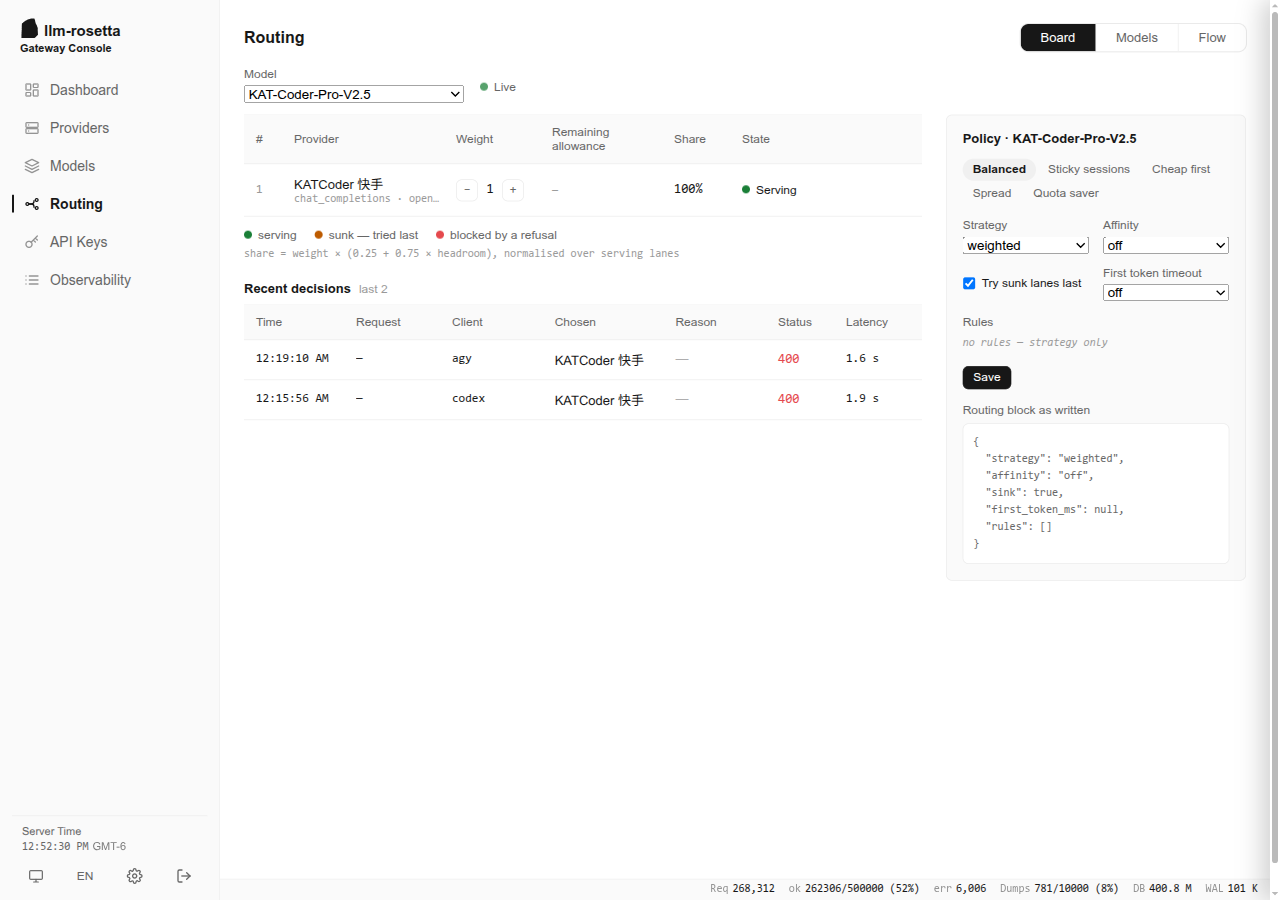
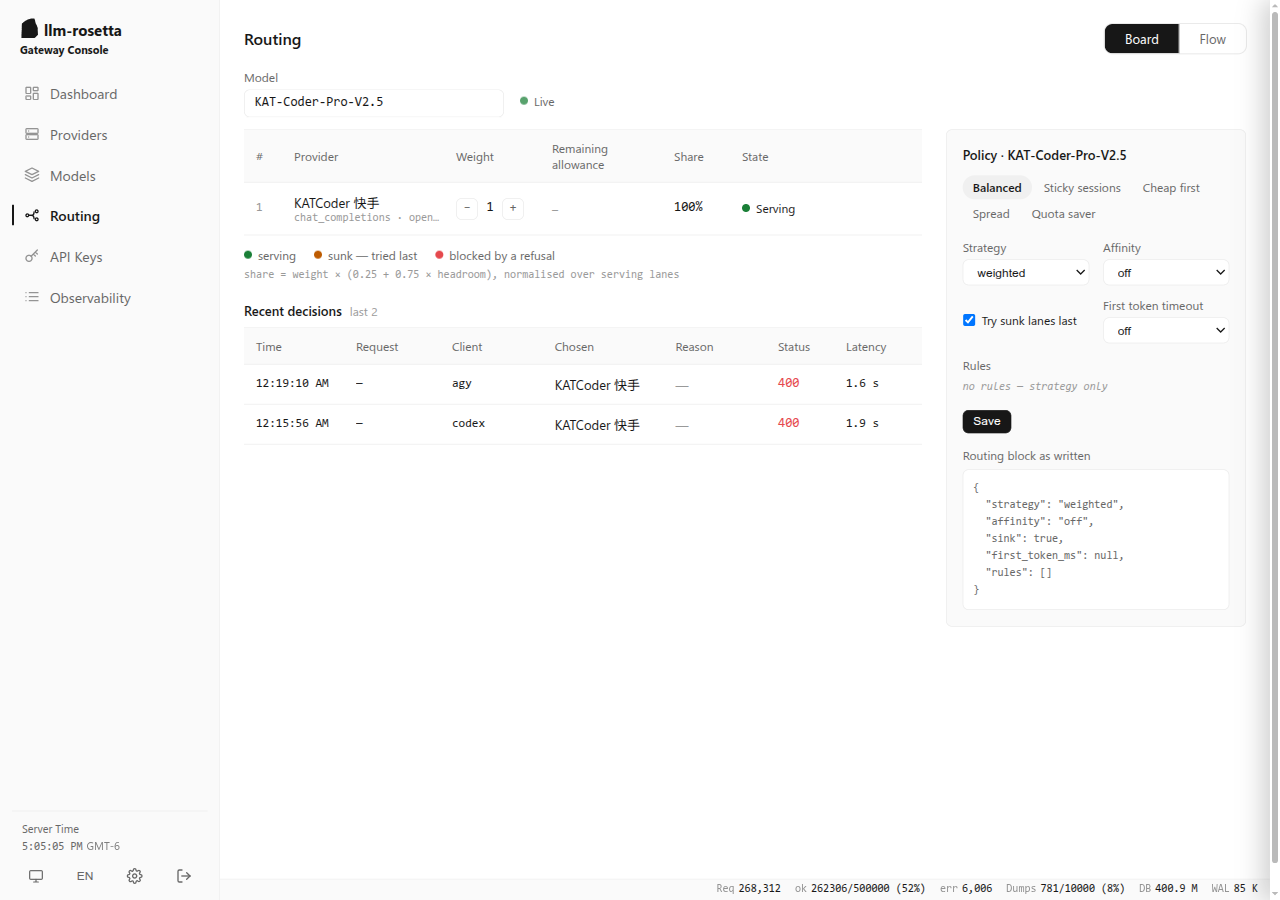
docs(admin): 路由选择器改为搜索框，视图合并为两个

diff --git a/docs/changelog.md b/docs/changelog.md
@@ -12,7 +12,7 @@ All notable changes to LLM-Rosetta are documented here. This project follows [Ke
 - **生成的轮次驱动流式往返**（epic [#1223](https://github.com/Oaklight/llm-rosetta/issues/1223)，issue [#1314](https://github.com/Oaklight/llm-rosetta/issues/1314)）：`tests/converters/test_stream_roundtrip.py` 把双腿一致性表里的每个轮次渲染成一条流会发出的事件序列，送经全部五个方言。两条性质：再一次经过同一方言不会改变任何东西（`read(write(read(write(events)))) == read(write(events))`，65 格），以及绕经另一个方言后能拿回那个轮次。事件序列跨方言不可比，因此跨格式那一半比较双腿一致性测试已定义的 `TurnView`。探针本身先要修：逐块喂给读取方时流从未关闭，Chat 被推迟的 `stream_end` 不会到达，最初 103 条差异里有 55 条是探针自己的问题。剩余 37 条跨格式差异逐条记入 `stream_roundtrip_losses.json` 并写明所属族的原因 —— 只挂在终止事件上的拒绝（8 条）、同样的文字被写进 text 部分（2 条）、终止原因按目标方言自己的词汇重新推导（15 条）、以及目标方言无法表达的调用：freeform 调用退化为 function 调用，server tool 调用无处承载（12 条）。固定点本身不足以说明问题 —— 先把内容全丢光、之后一直丢光的方言同样是固定点 —— 因此套件还把第一次输出与收到的轮次对齐：今天有 25 个字段在第一次输出时就变了，每条都写明原因。
 - **提供方条目级模型覆盖**（史诗 [#1322](https://github.com/Oaklight/llm-rosetta/issues/1322)，议题 [#1344](https://github.com/Oaklight/llm-rosetta/issues/1344)）：`providers[]` 的条目可以声明自己的 `capabilities`，资格判定会为需求不匹配的请求跳过它 —— 图片需要 `vision`，工具列表需要 `tools`，推理强度需要 `reasoning`。不匹配只作用于该请求，同一条目对其他请求仍是候选；未声明能力的条目继承提供方自身能力，因此配置中没有该字段时行为完全不变。所有候选都缺少所需能力时，路由返回 `400` 并写明缺少项，因为重试无法补上。模型抽屉的每个提供方行新增能力字段（留空表示继承），由 `POST /admin/api/config/models/<name>/update-provider` 校验（[配置](gateway/configuration.md#provider-capabilities)）。同一改动让连续 429 跟踪器的读取接受可注入的时间点，修复了一组用固定时间线对照系统时钟判断的测试。
 - **非 LLM 端点接入选择器**（史诗 [#1322](https://github.com/Oaklight/llm-rosetta/issues/1322)，议题 [#1343](https://github.com/Oaklight/llm-rosetta/issues/1343)）：嵌入、重排与决策模型可以声明多个提供方，但此前这些池只保留第一个，权重、配额和「第一个提供方已耗尽」对它们都不起作用。现在它们与聊天路由走同样的两个阶段 —— 先资格判定，再按声明权重选择锚点 —— 因此非 LLM 模型会按权重分配流量，并跳过状态已移除的提供方（配额耗尽、被阻塞，或连续 429 导致停用）。所有候选都不可用时返回 `503`（启动失败后为 `502`），已知恢复时间时带 `Retry-After`，而不是 `404`。开启 `failover_on_quota` 后，上游 `429` 会把请求移到下一个提供方，并计入聊天路由使用的同一条连续 429 规则；请求只写一次账本，由实际应答的那次尝试写入。`<type>_models` 仍记录第一个提供方，因此管理面板列表与旧版配置段保持不变（[配置](gateway/configuration.md#typed-routes)）。
-- **管理面板的路由页**（史诗 [#1322](https://github.com/Oaklight/llm-rosetta/issues/1322)，议题 [#1342](https://github.com/Oaklight/llm-rosetta/issues/1342)）：控制台的 **路由** 页按模型显示选择器的结论 —— 每个候选的状态（`serving`、`sunk`、`blocked`、`rate_limited`、`spent`、`no_credential`、`initializing`）、配置权重、它实际服务的份额与剩余额度，以及来自请求日志的最近决策。每个数字都来自 `GET /admin/api/routing/<model>`，浏览器不再自己重算路由结论；模型选择器只列出网关实际可路由的模型（`GET /admin/api/routing`）。同一页用 `PUT` 写入模型的 `routing` 块，该请求会重建配置并运行与加载时相同的解析器，因此错误的值以解析器自己的消息返回。五个预设 —— 均衡、会话粘性、优先靠前、轮转分摊、配额节约 —— 写入配置词汇中的字面块；保存时保留编辑器不负责的键（`rules`、`first_token_ms`）。阻塞结束时间按秒倒计时，到期后列表自动刷新（[管理面板](gateway/admin-panel.md#routing)）。
+- **管理面板的路由页**（史诗 [#1322](https://github.com/Oaklight/llm-rosetta/issues/1322)，议题 [#1342](https://github.com/Oaklight/llm-rosetta/issues/1342)）：控制台的 **路由** 页按模型显示选择器的结论 —— 每个候选的状态（`serving`、`sunk`、`blocked`、`rate_limited`、`spent`、`no_credential`、`initializing`）、配置权重、它实际服务的份额与剩余额度，以及来自请求日志的最近决策。每个数字都来自 `GET /admin/api/routing/<model>`，浏览器不再自己重算路由结论；模型选择器是可路由模型（`GET /admin/api/routing`）上的搜索框，输入即可筛选。同一页用 `PUT` 写入模型的 `routing` 块，该请求会重建配置并运行与加载时相同的解析器，因此错误的值以解析器自己的消息返回。五个预设 —— 均衡、会话粘性、优先靠前、轮转分摊、配额节约 —— 写入配置词汇中的字面块；保存时保留编辑器不负责的键（`rules`、`first_token_ms`）。阻塞结束时间按秒倒计时，到期后列表自动刷新（[管理面板](gateway/admin-panel.md#routing)）。
 - **按请求的规则**（史诗 [#1322](https://github.com/Oaklight/llm-rosetta/issues/1322)，议题 [#1341](https://github.com/Oaklight/llm-rosetta/issues/1341)）：`models.<name>.routing.rules` 在模型自己的路由内移动单个请求 —— `{"when": {"images": true}, "use": "openrouter"}` 提升一个提供方，`{"when": {"time": {...}}, "pause": "argo"}` 为该请求丢弃一个提供方。条件有 `images`、`tokens_gte`、`effort_gte`、`agents` 与 `time`；同一个 `when` 中的每个条件都必须成立，第一条匹配的规则生效，没有规则匹配的请求照常落到策略。规则在锚点选定之后运行，因此与同格式分层是组合关系；它们读取请求的 **IR** 而不是源请求体，因此同一条规则在客户端使用任何方言时含义相同。规则只能点名模型已经列出的提供方 —— 点名其他提供方会让加载失败，未知的条件键同样如此。有两个已写入文档的近似事实：`tokens_gte` 比较的是序列化后 IR 的大小除以四（排除图片负载），因为网关没有分词器；`agents` 按不区分大小写的子串匹配客户端的 `x-rosetta-agent` 标签与 `User-Agent`。没有规则的模型不会付出任何代价：只有模型至少有一条规则时才会为规则求值构建 IR（[配置](gateway/configuration.md)）。
 - **模型级路由块**（史诗 [#1322](https://github.com/Oaklight/llm-rosetta/issues/1322)，议题 [#1340](https://github.com/Oaklight/llm-rosetta/issues/1340)）：`models.<name>.routing` 现在说明模型的提供方之间如何选择 —— `strategy`、`affinity`、`sink`、`first_token_ms` 与 `rules` —— 并且它是唯一说明这件事的地方。它在构建配置时解析一次，用的是管理面板保存路径上的同一个函数，因此未知键会让加载与保存报同样的消息。五种策略：`weighted`（默认，也是今天的行为）、`ordered`（总是第一个可用提供方）、`rotate`（普通轮询，忽略权重）、`least_used`（自路由建立以来服务次数最少）、以及 `pace`（只按剩余额度做加权轮询，忽略配置权重）。`affinity` 为 `off` 或 `session`；`session` 让同一客户端固定在一个提供方，且只能与 `weighted` 搭配，因为身份取代了逐请求的选择。`sink` 决定最近一次 429 是否让该模型的提供方排到最后 —— 提供方的*禁用*仍是进程级的。块之前的 `strategy` 字段仍会被读取（`affinity_round_robin` 等价于 `affinity: "session"`），同一模型同时写 `strategy` 与 `routing` 是错误，而不是谁优先的规则。`turn` 与 `strict` 已写入文档但尚未实现；加载时会按名称拒绝，而不是接受一个什么都不做的值；规则落地前，非空的 `rules` 列表会被拒绝（[配置](gateway/configuration.md)）。
 - **连续 429 会让一条通道退出轮换**（史诗 [#1322](https://github.com/Oaklight/llm-rosetta/issues/1322)，议题 [#1339](https://github.com/Oaklight/llm-rosetta/issues/1339)）：新增顶层 `routing.rate_limit` 配置块，规定连续拒绝时做什么，适用于每一条通道 —— 包括没有额度探针的提供方，它过去在 429 之后会被当作什么都没发生，下次照常重试。第一次拒绝会让提供方**下沉**（移到顺序末尾，但仍是候选，因此没有其他候选的路由仍能服务）；在 `window_s` 内的第 `after` 次拒绝会**禁用**它 `cooldown_s`，每次重复翻倍，直至 `cooldown_max_s`；一次成功会清除计数、翻倍阶梯与下沉状态。默认值为 `{"sink": true, "after": 3, "window_s": 300, "cooldown_s": 60, "cooldown_max_s": 900}`，配置块格式错误会在加载配置时失败，而不是等到第一次请求。拒绝按提供方**和**凭据分别计数 —— 通道有 key 时 429 记在真正触发它的凭据上，没有 key 时记在提供方上 —— 一个凭据被禁用、另一个凭据可用的提供方仍在轮换中，key 环会跳过被禁用的那个。状态与额度封锁放在一起（`quota/state.py`），不持久化，选择器只读不写。提供方卡片的额度按钮会显示两种状态：正在封锁显示为“跳过至 …… —— 连续 429”，被下沉的提供方显示为“最后尝试 —— 最近的 429 只让它靠后，未将其移出”（[额度](guide/quota.md)）。
